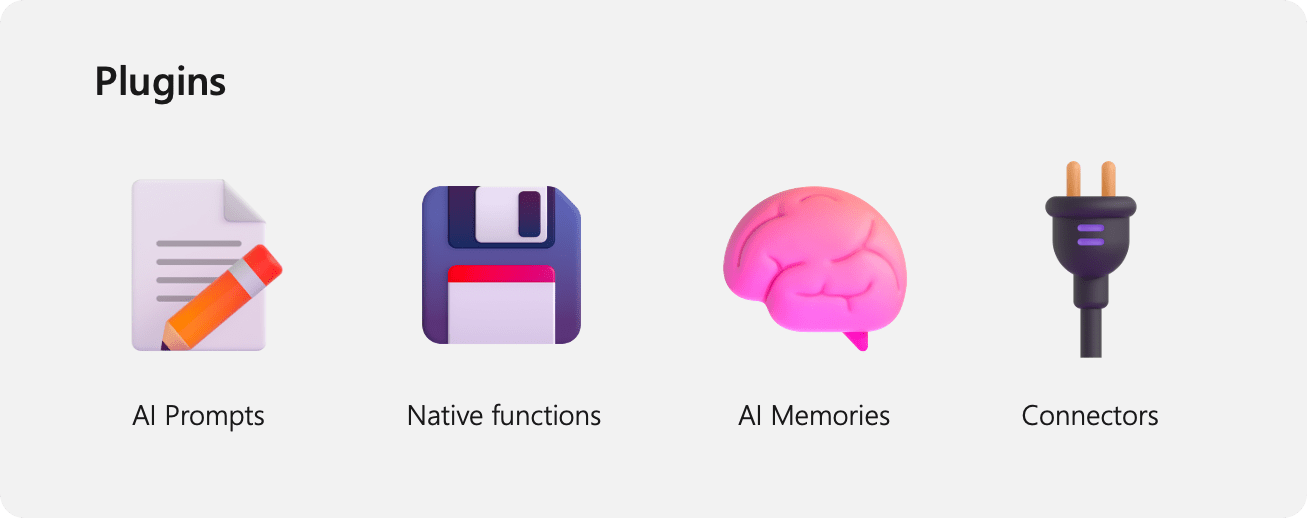
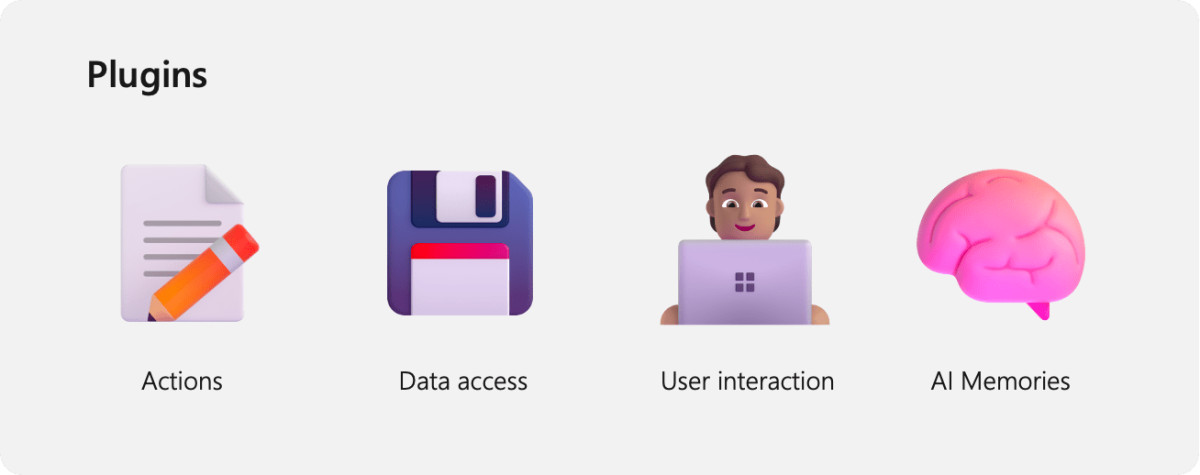
Add images to agent page

diff --git a/semantic-kernel/creating-agents/index.md b/semantic-kernel/creating-agents/index.md
@@ -24,9 +24,9 @@ As we'll see, building an agent with Semantic Kernel is extremely easy, but befo
 ### The building blocks of an agent
 An agent is made up of three core building blocks: [plugins](./plugins/index.md), [planners](./planners/index.md), and its persona. These building blocks are what allow an agent to retrieve information from the user or other systems, plan how to use that information, and use that information to respond to a user or perform an action.
 
-TODO: Add image of agent building blocks
+![Plugins, planners, and persona](../media/plugins-planners-personas.png)
 
-Take for example, a copilot that helps a user write and send an email. After getting instructions from a user, the copilot would need to generate a plan to complete the task. This plan would include steps like...
+Take for example, a copilot that helps a user write and send an email. After getting instructions from a user, the copilot would need to generate a plan using the available plugins to complete the task. This plan would include steps like...
 1. Get the user's email address and name
 2. Get the email address of the recipient
 3. Get the topic of the email
@@ -37,7 +37,7 @@ Take for example, a copilot that helps a user write and send an email. After get
 #### Plugins
 To generate this plan, the copilot would first need the capabilities necessary to perform these steps. This is where plugins come in. Plugins allow you to give your agent skills via code. For example, you could create a plugin that sends emails, retrieves information from a database, asks for help, or even saves and retrieves memories from previous conversations.
 
-// TODO: Add image of plugin
+![Plugin types](../media/plugin-composition.png)
 
 In our example, we can build a simple plugin that sends emails. This plugin would have a single function, `SendEmail`, that takes in the email address, subject, and body of the email. It would then use this information to send the email.
 
@@ -54,6 +54,7 @@ public class EmailPlugin
     )
     {
         // Add logic to send an email using the recipientEmails, subject, and body
+        // For now, we'll just print out a success message to the console
         Console.WriteLine("Email sent!");
     }
 }
@@ -80,6 +81,7 @@ public class AuthorEmailPlanner
         [Description("A description of the recipients")] string recipients
     )
     {
+        // Prompt the LLM to generate a list of steps to complete the task
         var result = await kernel.InvokePromptAsync($"""
         I'm going to write an email to {recipients} about {topic} on behalf of a user.
         Before I do that, can you succinctly recommend the top 3 steps I should take in a numbered list?
@@ -89,6 +91,7 @@ public class AuthorEmailPlanner
             { "recipients", recipients }
         });
 
+        // Return the result
         return result.ToString();
     }
 }
@@ -101,16 +104,16 @@ Finally, as a software developer, you want to influence how your agent interacts
 
 In the simplest cases, you can use the persona to change its personality. Is the agent friendly? Is it sarcastic? Is it helpful? More importantly, however, you can also use the persona to influence how the agent responds to certain situations. For example, you can use the persona to tell the agent to ask for help if it doesn't know what to do. Or to be more verbose when it is explaining something to a user.
 
-In our example, we can use the persona to make the agent more curious about the audience of the email. This would encourage the persona to ask more questions about the audience of the email so that it can generate a more personalized email.
+In our example, we can use the persona to make sure the agent retrieves all the information it needs before completing a task. This would encourage the persona to ask more questions so it can generate a better email.
 
-We'll do this by passing in a system prompt into a `ChatHistory` object that contains the persona. This `ChatHistory` object will then be used whenever we make a request to the agent.
+We'll do this by passing in a system prompt into a `ChatHistory` object that contains the persona. This `ChatHistory` object will then be used whenever we make a request to the agent so that the agent is aware of its persona and all the previous conversations it has had with the user.
 
 ```csharp
 ChatHistory chatMessages = new ChatHistory("""
-You are a friendly assistant who likes to follow the rules. You will complete required steps and
-request approval before taking any consequential actions. If the user doesn't provide enough information
-for you to complete a task, you will keep asking questions until you have enough information to complete
-the task.
+You are a friendly assistant who likes to follow the rules. You will complete required steps
+and request approval before taking any consequential actions. If the user doesn't provide
+enough information for you to complete a task, you will keep asking questions until you have
+enough information to complete the task.
 """);
 ```
 
@@ -126,13 +129,15 @@ builder.Plugins.AddFromType<AuthorEmailPlanner>();
 builder.Plugins.AddFromType<EmailPlugin>();
 Kernel kernel = builder.Build();
 
-// Create the chat history
+// Retrieve the chat completion service from the kernel
 IChatCompletionService chatCompletionService = kernel.GetRequiredService<IChatCompletionService>();
+
+// Create the chat history
 ChatHistory chatMessages = new ChatHistory("""
-You are a friendly assistant who likes to follow the rules. You will complete required steps and
-request approval before taking any consequential actions. If the user doesn't provide enough information
-for you to complete a task, you will keep asking questions until you have enough information to complete
-the task.
+You are a friendly assistant who likes to follow the rules. You will complete required steps
+and request approval before taking any consequential actions. If the user doesn't provide
+enough information for you to complete a task, you will keep asking questions until you have
+enough information to complete the task.
 """);
 
 // Start the conversation
